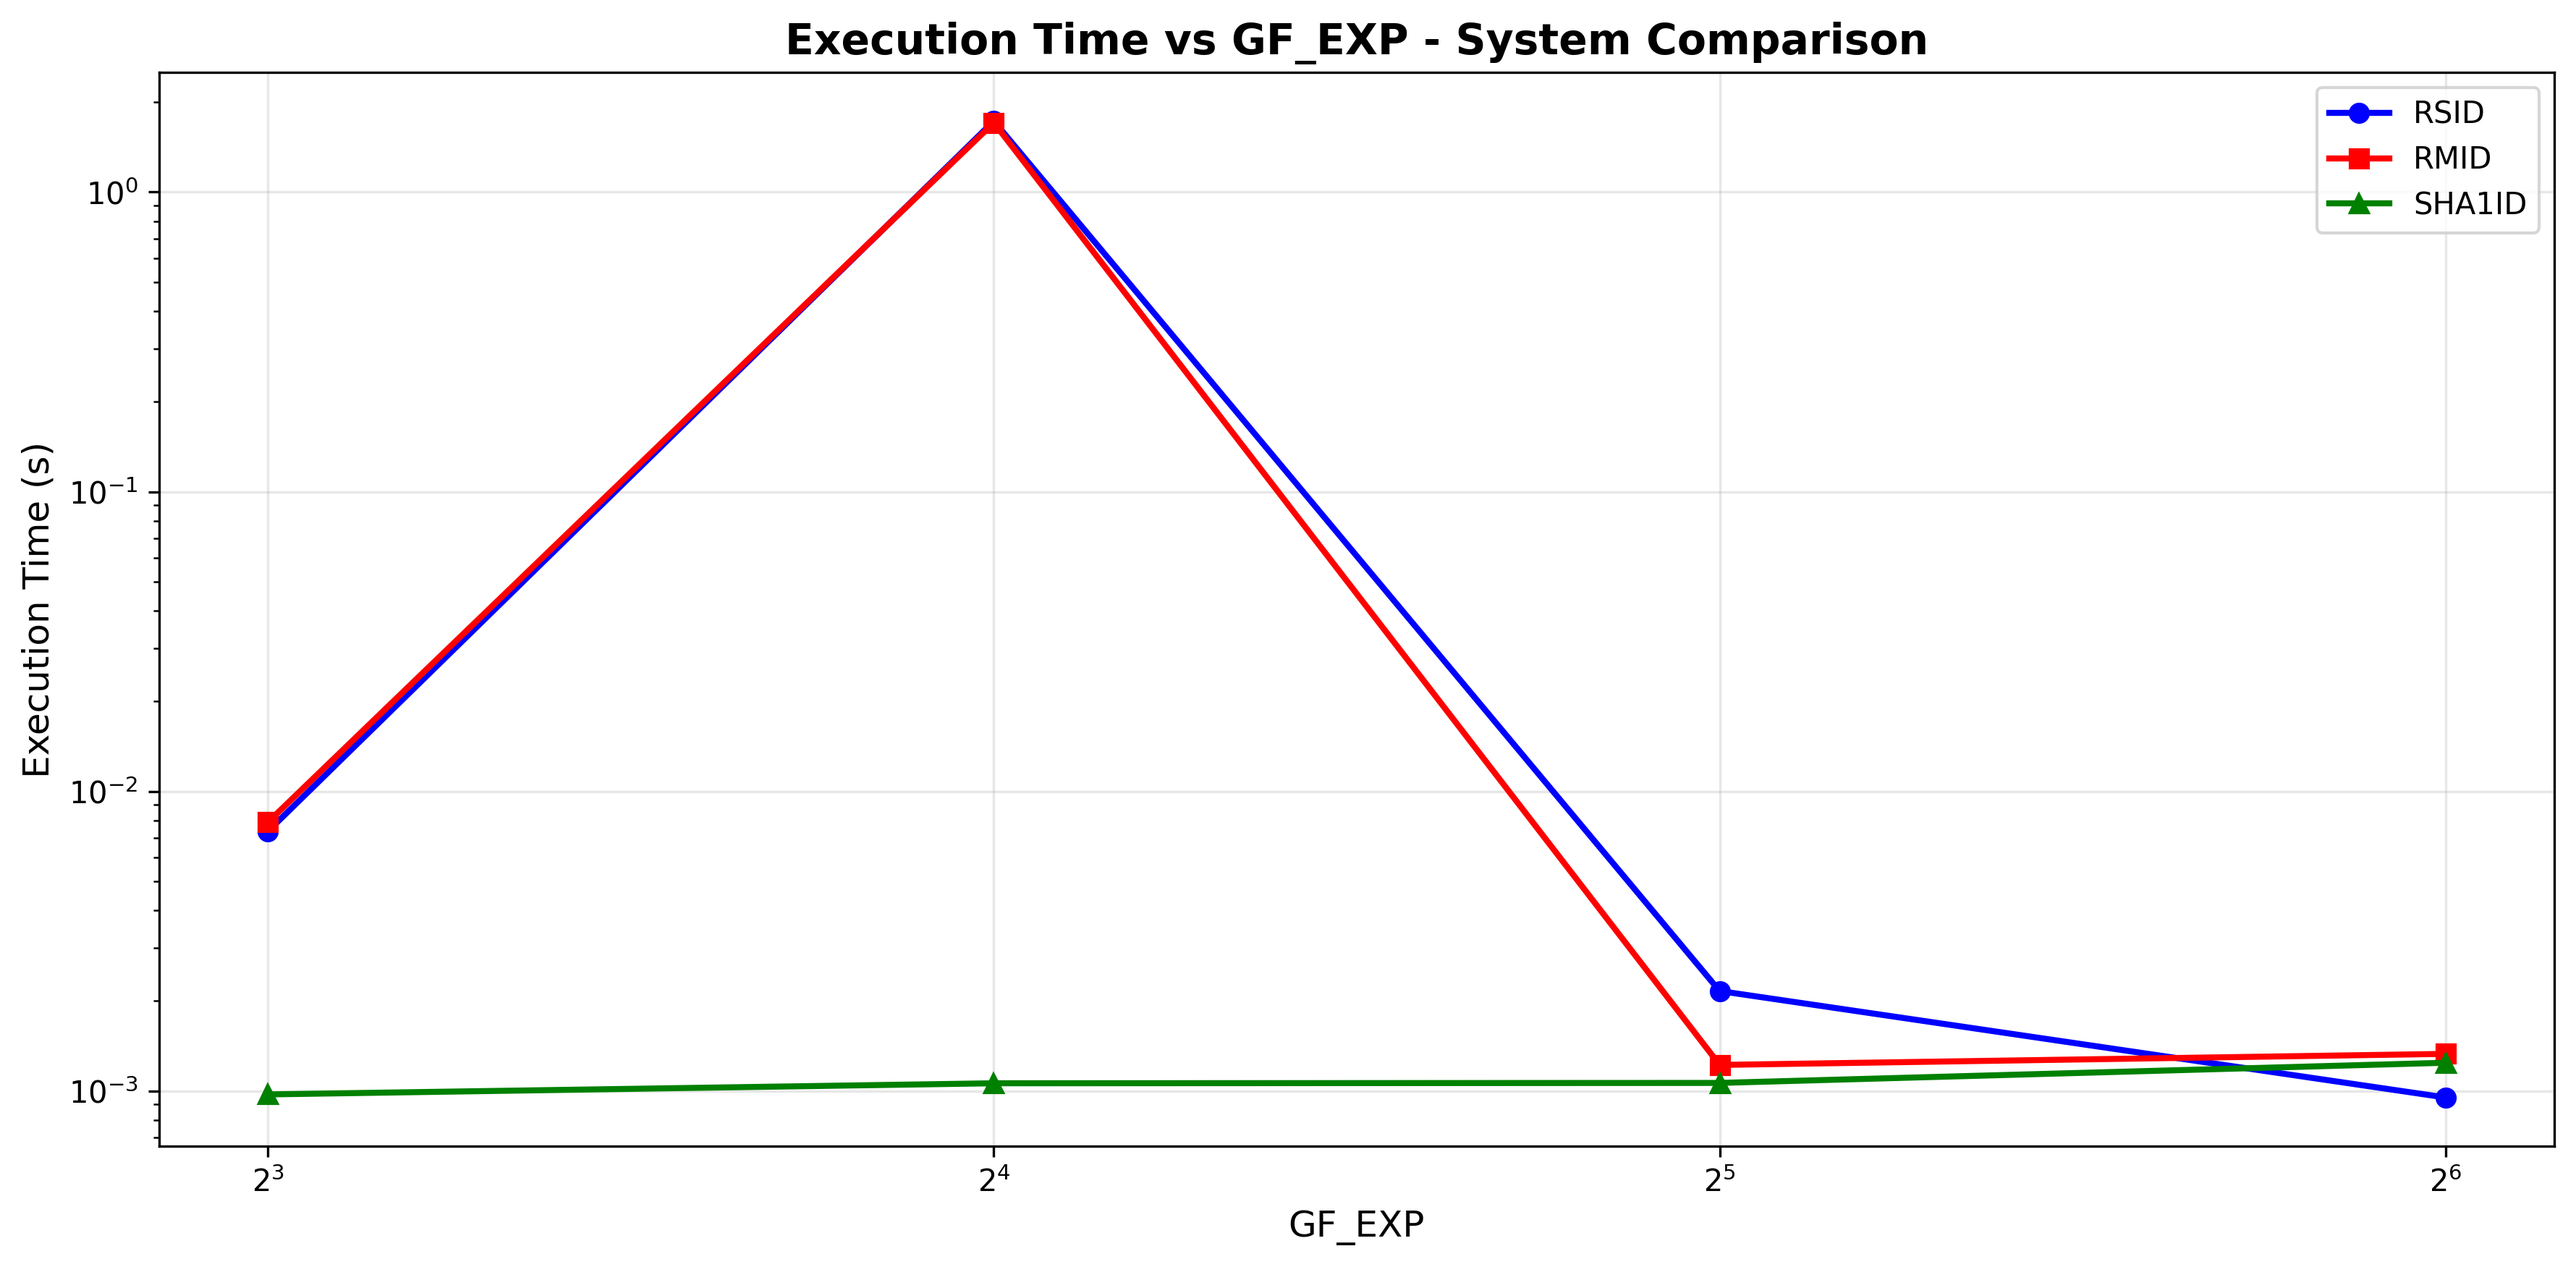
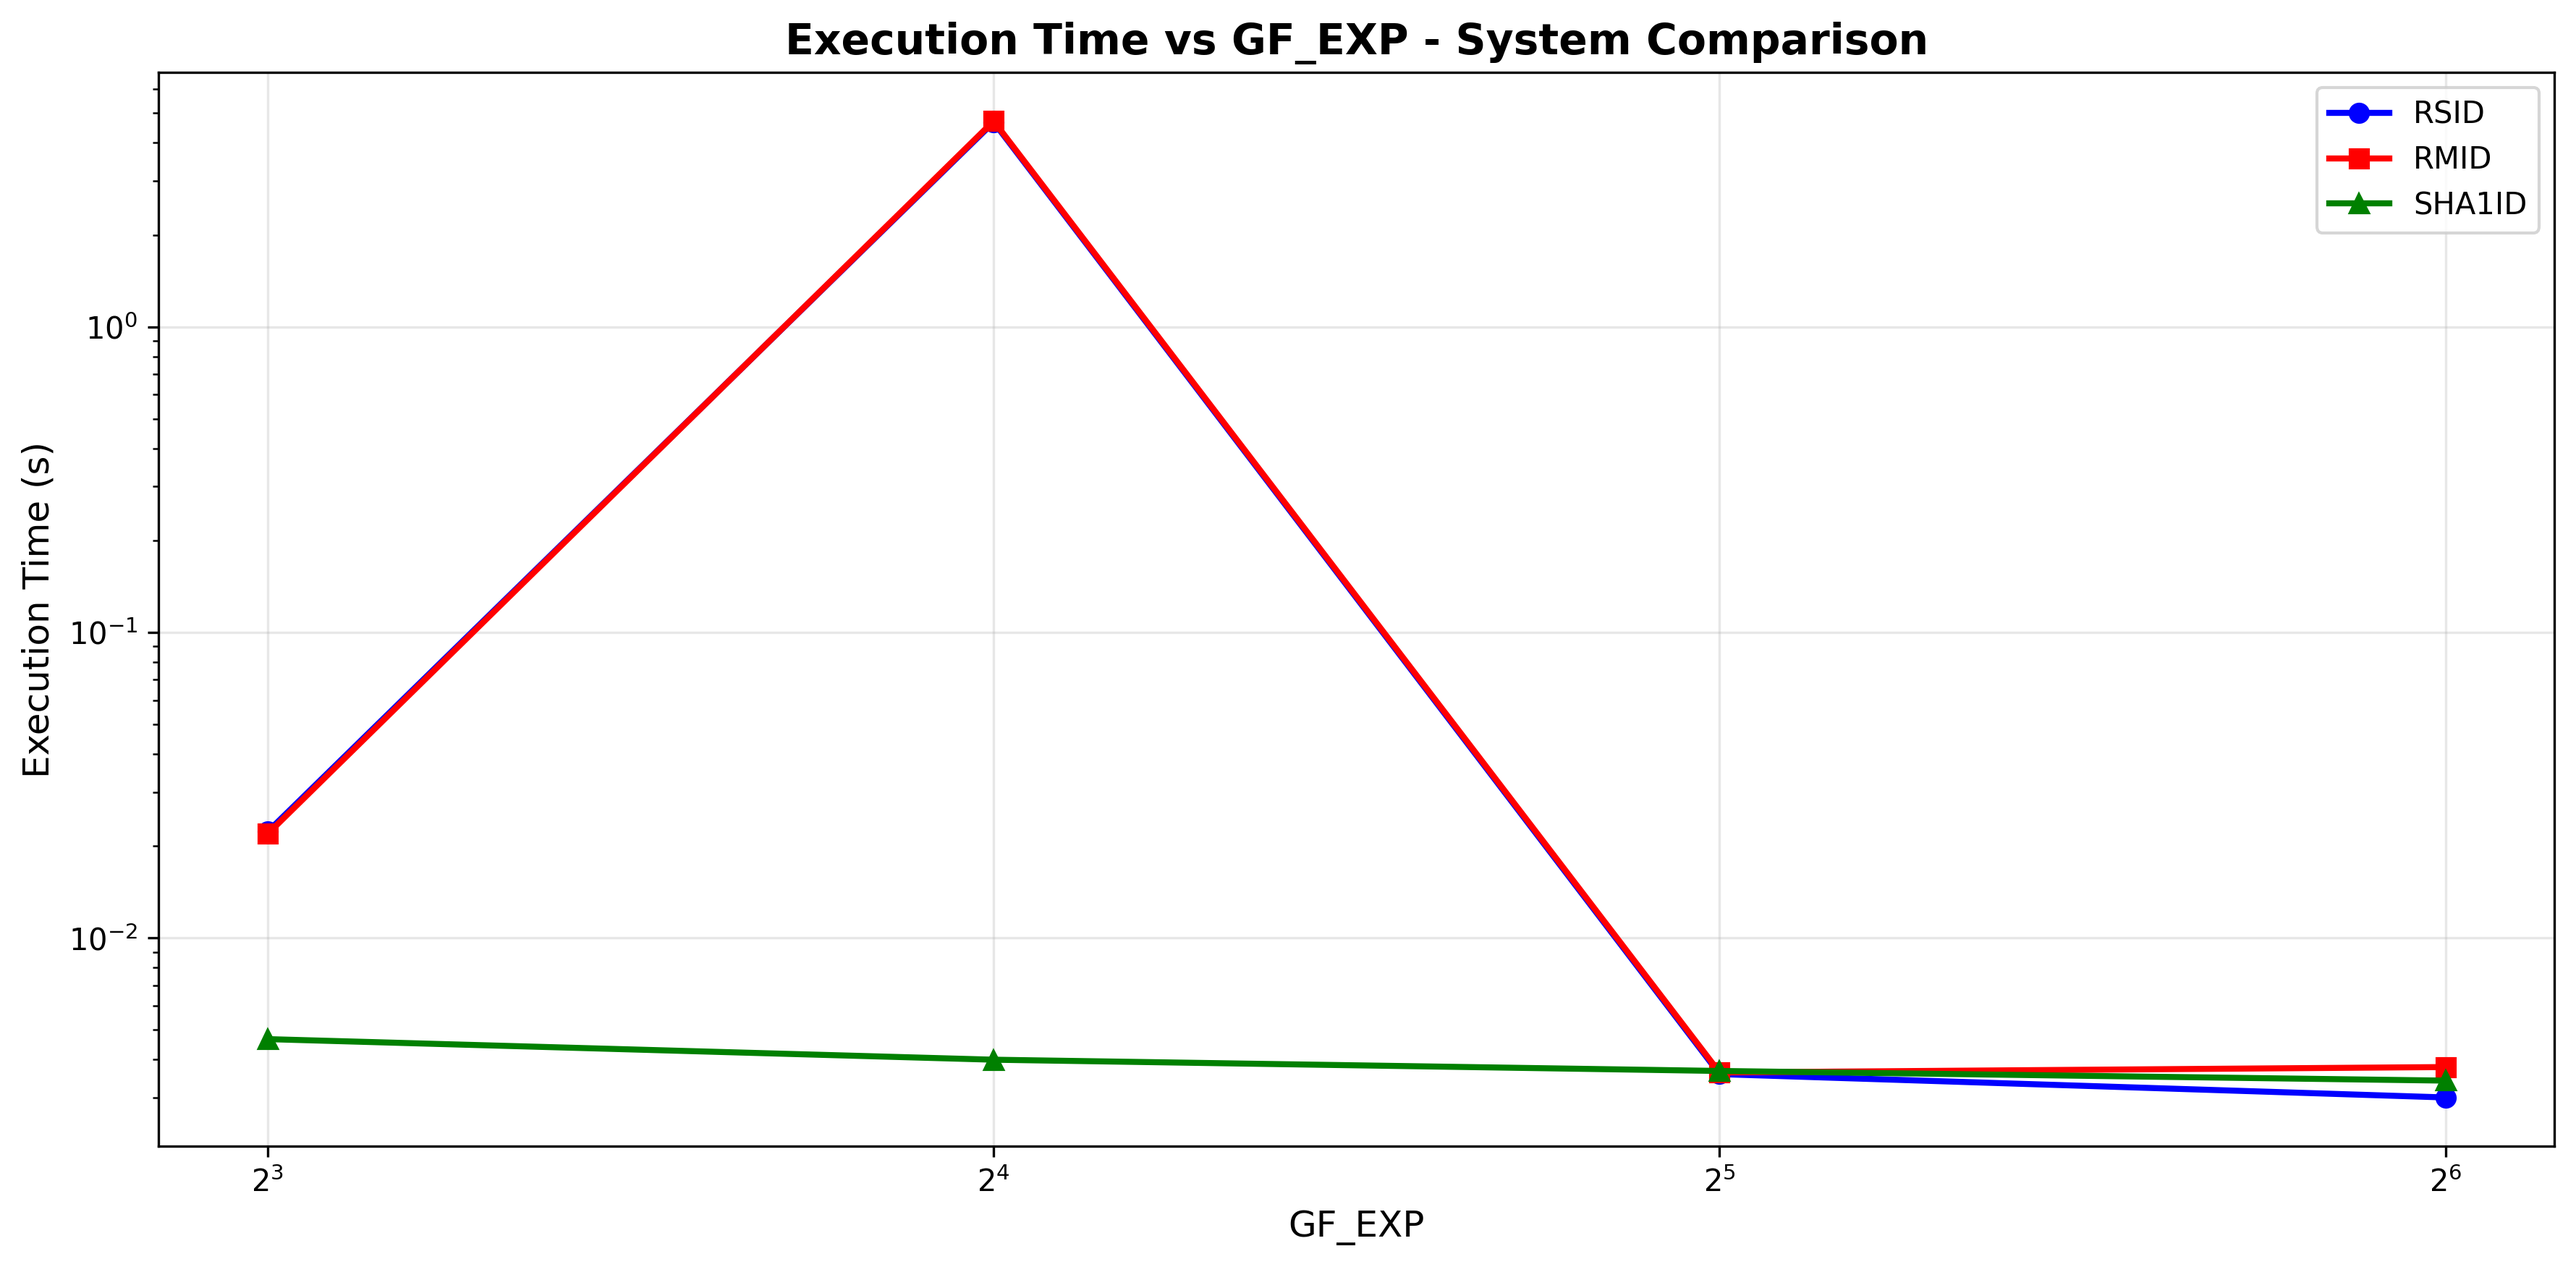
plots for gf_exp with changed parameters

diff --git a/analyses/gf_exp_influence/gf_exp.py b/analyses/gf_exp_influence/gf_exp.py
@@ -1,5 +1,12 @@
 """Test for examining the influence of the gf_exp parameter on reliability and execution time
 """
+
+import sys
+import os
+#Add path to parent directory to import framework modules
+sys.path.append(os.path.dirname(os.path.dirname(os.path.dirname(os.path.abspath(__file__)))))
+
+
 from framework import IdMetrics
 from framework import create_id_system, generate_test_messages
 import matplotlib.pyplot as plt
@@ -13,6 +20,10 @@ def main():
 
     # Range of gf_exp values to test
     gf_exp_values = [8, 16, 32, 64]
+    num_messages = 1000  # Number of messages to generate for each gf_exp
+    vec_len = 125  # Fixed vector length for this test 1000bit
+    trials = 2**18  # Number of trials for each system evaluation
+    #2**18 = 250000
 
     # Create systems as a dictionary for compare_systems
     system_types = [
@@ -22,27 +33,27 @@ def main():
     ]
 
     # Store results for each system
-    system_results = {name: {'gf_exp': [], 'reliability': [], 'exec_time': [], 'fp_rate': []} for name, _ in system_types}
+    system_results = {name: {'gf_exp': [], 'reliability': [], 'false_positives': [], 'exec_time': [], 'fp_rate': []} for name, _ in system_types}
 
     for gf_exp in gf_exp_values:
         print(f"\nEvaluating with GF_EXP: {gf_exp}")
         # Generate test messages for this gf_exp
-        messages = generate_test_messages(vec_len=8, gf_exp=gf_exp, count=1000)
+        messages = generate_test_messages(vec_len=vec_len, gf_exp=gf_exp, count=num_messages)
         systems = {name: make_sys(gf_exp) for name, make_sys in system_types}
 
         metrics = IdMetrics.compare_systems(
             systems,
             messages,
-            #num_trials=100000,  # Fewer trials for speed
-            num_trials=2**18,  # Fewer trials for speed
+            num_trials=trials, 
             timing_iterations=1000,
-            p_true_positive=0.5
+            p_true_positive=0
         )
 
         # Store results for each system
         for system_name, system_metrics in metrics.items():
             system_results[system_name]['gf_exp'].append(gf_exp)
             system_results[system_name]['reliability'].append(system_metrics["reliability"])
+            system_results[system_name]['false_positives'].append(system_metrics["false_positives"])
             system_results[system_name]['exec_time'].append(system_metrics["avg_execution_time_ms"])
             system_results[system_name]['fp_rate'].append(system_metrics["false_positive_rate"])
 
@@ -90,6 +101,33 @@ def main():
     plt.tight_layout()
     plt.savefig('analyses/gf_exp_influence/exec_time_vs_gf_exp.png', dpi=300, bbox_inches='tight')
 
+    # Plot false positives vs GF_EXP
+    plt.figure(figsize=(12, 6))
+    colors = ['blue', 'red', 'green', 'orange', 'purple']
+    markers = ['o', 's', '^', 'D', 'v']
+    for i, (system_name, results) in enumerate(system_results.items()):
+        plt.plot(results['gf_exp'], results['false_positives'],
+                 marker=markers[i % len(markers)],
+                 color=colors[i % len(colors)],
+                 label=system_name,
+                 linewidth=2,
+                 markersize=6)
+    plt.title('False Positives vs GF_EXP - System Comparison', fontsize=14, fontweight='bold')
+    plt.xlabel('GF_EXP', fontsize=12)
+    plt.ylabel('False Positives', fontsize=12)
+    plt.grid(True, alpha=0.3)
+    plt.xscale('log', base=2)
+    plt.legend(fontsize=10)
+    plt.xticks(gf_exp_values)
+
+    # Add textbox with trials, vec_len, and num_messages
+    textstr = f'Trials: {trials}\nVec Len: {vec_len}\nNum Messages: {num_messages}'
+    plt.gcf().text(0.95, 0.5, textstr, fontsize=10, verticalalignment='center', bbox=dict(facecolor='white', alpha=0.5))
+
+    plt.tight_layout()
+    plt.savefig('analyses/gf_exp_influence/false_positives_vs_gf_exp.png', dpi=300, bbox_inches='tight')
+
+
     # Plot false positive rate vs gf_exp
     plt.figure(figsize=(12, 6))
     for i, (system_name, results) in enumerate(system_results.items()):
@@ -119,5 +157,33 @@ def main():
         avg_time = np.mean(results['exec_time'])
         print(f"{system_name:>8}: Avg Reliability = {avg_reliability:.4f}, Avg Exec Time = {avg_time:.3f}s")
 
+    # Print all false positives for each system
+    print("\n" + "=" * 60)
+    print("FALSE POSITIVES")
+    print("=" * 60)
+    for system_name, results in system_results.items():
+        print(f"{system_name}:")
+        for gf_exp, false_positives in zip(results['gf_exp'], results['false_positives']):
+            print(f"  GF_EXP {gf_exp}: False Positives = {false_positives}")
+
 if __name__ == "__main__":
     main()
+
+
+'''
+RSID:
+  GF_EXP 8: False Positives = 992
+  GF_EXP 16: False Positives = 9
+  GF_EXP 32: False Positives = 0
+  GF_EXP 64: False Positives = 0
+RMID:
+  GF_EXP 8: False Positives = 1068
+  GF_EXP 16: False Positives = 12
+  GF_EXP 32: False Positives = 0
+  GF_EXP 64: False Positives = 0
+SHA1ID:
+  GF_EXP 8: False Positives = 1028
+  GF_EXP 16: False Positives = 5
+  GF_EXP 32: False Positives = 0
+  GF_EXP 64: False Positives = 0
+'''
